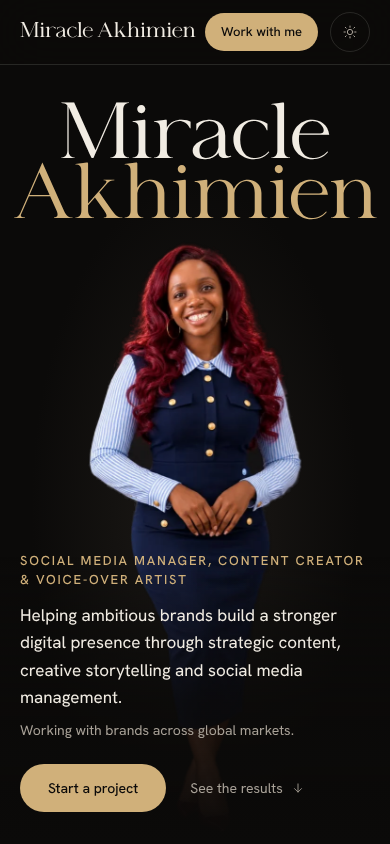
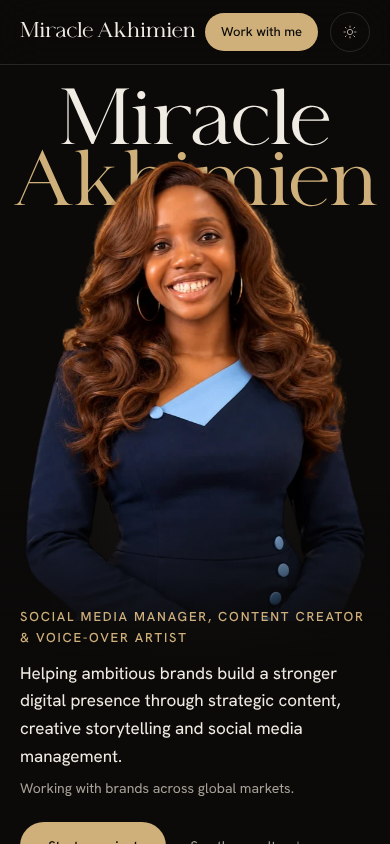
Hero: client's chosen navy half-portrait; restack mobile hero so copy sits below her
Claude-Session: https://claude.ai/code/session_017HRKuGRTr2TeYunUwT3HaN

diff --git a/web/app/page.tsx b/web/app/page.tsx
@@ -81,12 +81,12 @@ export default function Home() {
 
       <main id="top">
         {/* Hero: her name set like a poster, Miracle standing in front of it */}
-        <section className="relative isolate h-[100svh] min-h-[640px] overflow-hidden">
+        <section className="relative isolate overflow-hidden md:h-[100svh] md:min-h-[640px]">
           <div
             className="absolute inset-0 -z-20 bg-[radial-gradient(60%_55%_at_50%_60%,var(--wall-3),transparent_70%)]"
             aria-hidden
           />
-          <h1 className="par-name absolute inset-x-0 top-[13svh] -z-10 text-center md:top-[12svh]">
+          <h1 className="par-name relative -z-10 pt-24 text-center md:absolute md:inset-x-0 md:top-[12svh] md:pt-0">
             <span className="sr-only">
               {site.fullName}, {site.disciplines}
             </span>
@@ -101,33 +101,21 @@ export default function Home() {
               Akhimien
             </span>
           </h1>
-          {/* Navy gown on the dark theme, grey gown on the light theme: each was shot on a matching ground. */}
           <img
-            src="/media/hero-navy-900.webp"
-            srcSet="/media/hero-navy-520.webp 520w, /media/hero-navy-900.webp 900w"
-            sizes="(min-width: 768px) 32vw, 70vw"
-            width={900}
-            height={2237}
+            src="/media/hero-portrait-1000.webp"
+            srcSet="/media/hero-portrait-600.webp 600w, /media/hero-portrait-1000.webp 1000w"
+            sizes="(min-width: 768px) 40vw, 96vw"
+            width={1000}
+            height={1301}
             alt=""
             fetchPriority="high"
-            className="enter-lift par-figure absolute bottom-0 left-1/2 hidden h-[72svh] w-auto max-w-none -translate-x-1/2 dark:block md:h-[86svh]"
+            className="enter-lift par-figure relative mx-auto -mt-[16vw] block h-auto w-[92vw] max-w-none md:absolute md:bottom-0 md:left-1/2 md:mt-0 md:h-[76svh] md:w-auto md:-translate-x-1/2"
             style={{ animationDelay: "250ms" }}
           />
-          <img
-            src="/media/portrait-cut-900.webp"
-            srcSet="/media/portrait-cut-520.webp 520w, /media/portrait-cut-900.webp 900w"
-            sizes="(min-width: 768px) 32vw, 70vw"
-            width={900}
-            height={2560}
-            alt=""
-            loading="lazy"
-            className="enter-lift par-figure absolute bottom-0 left-1/2 h-[72svh] w-auto max-w-none -translate-x-1/2 dark:hidden md:h-[86svh]"
-            style={{ animationDelay: "250ms" }}
-          />
-          <div className="absolute inset-x-0 bottom-0 h-[34svh] bg-gradient-to-t from-wall via-wall/80 to-transparent" aria-hidden />
-          <div className="par-copy absolute inset-x-0 bottom-0 mx-auto flex max-w-[92rem] flex-col gap-6 px-5 pb-8 md:flex-row md:items-end md:justify-between md:px-10 md:pb-12">
-            <div className="enter-rise max-w-[34rem]" style={{ animationDelay: "500ms" }}>
-              <p className="text-[13px] font-medium uppercase tracking-[0.14em] text-gold">{site.disciplines}</p>
+          <div className="absolute inset-x-0 bottom-0 hidden h-[34svh] bg-gradient-to-t from-wall via-wall/80 to-transparent md:block" aria-hidden />
+          <div className="par-copy relative -mt-32 mx-auto flex max-w-[92rem] flex-col gap-6 bg-gradient-to-t from-wall from-60% to-transparent px-5 pb-12 pt-28 md:absolute md:inset-x-0 md:bottom-0 md:mt-0 md:bg-none md:pt-0 md:pb-12 md:flex-row md:items-end md:justify-between md:px-10 md:pb-12">
+            <div className="enter-rise max-w-[27rem] lg:max-w-[30rem]" style={{ animationDelay: "500ms" }}>
+              <p className="max-w-[23rem] text-[13px] font-medium uppercase leading-relaxed tracking-[0.14em] text-gold">{site.disciplines}</p>
               <p className="mt-3 max-w-md text-[17px] leading-relaxed md:text-lg">{site.pitch}</p>
               <p className="mt-2 text-sm text-ink-2">{site.reach}</p>
               <div className="mt-6 flex items-center gap-6">

diff --git a/web/app/globals.css b/web/app/globals.css
@@ -285,13 +285,19 @@ select {
     }
   }
   .par-figure {
+    --fx: 0;
     animation: par-figure linear both;
     animation-timeline: scroll(root);
     animation-range: 0 100svh;
   }
+  @media (min-width: 48rem) {
+    .par-figure {
+      --fx: -50%;
+    }
+  }
   @keyframes par-figure {
     to {
-      translate: -50% -4svh;
+      translate: var(--fx) -4svh;
       scale: 1.04;
     }
   }

diff --git a/docs/CONTENT_AUDIT.md b/docs/CONTENT_AUDIT.md
@@ -103,6 +103,6 @@ File: `assets/photos/miracle-portrait-full.webp` (1024×1536, full-length, stand
 
 ## 8. Photos and positioning update (11/10/2026)
 
-- Client supplied five studio photos. In use (her pick: two gowns, one suit): navy gown on black (dark-mode hero, background removed), grey gown on cream (light-mode hero), burgundy suit (About).
+- Client supplied five studio photos. In use (her pick): navy V-neck half portrait as the hero in both themes (background removed with rembg isnet), burgundy suit in About.
 - New hero copy from client: "Social Media Manager, Content Creator & Voice-Over Artist" / "Helping ambitious brands build a stronger digital presence through strategic content, creative storytelling and social media management." / "Working with brands across global markets."
 - Positioning: drop "Nigeria and the United States" from headline copy, because the client feels it limits her. Client cities stay on the case studies as facts.
